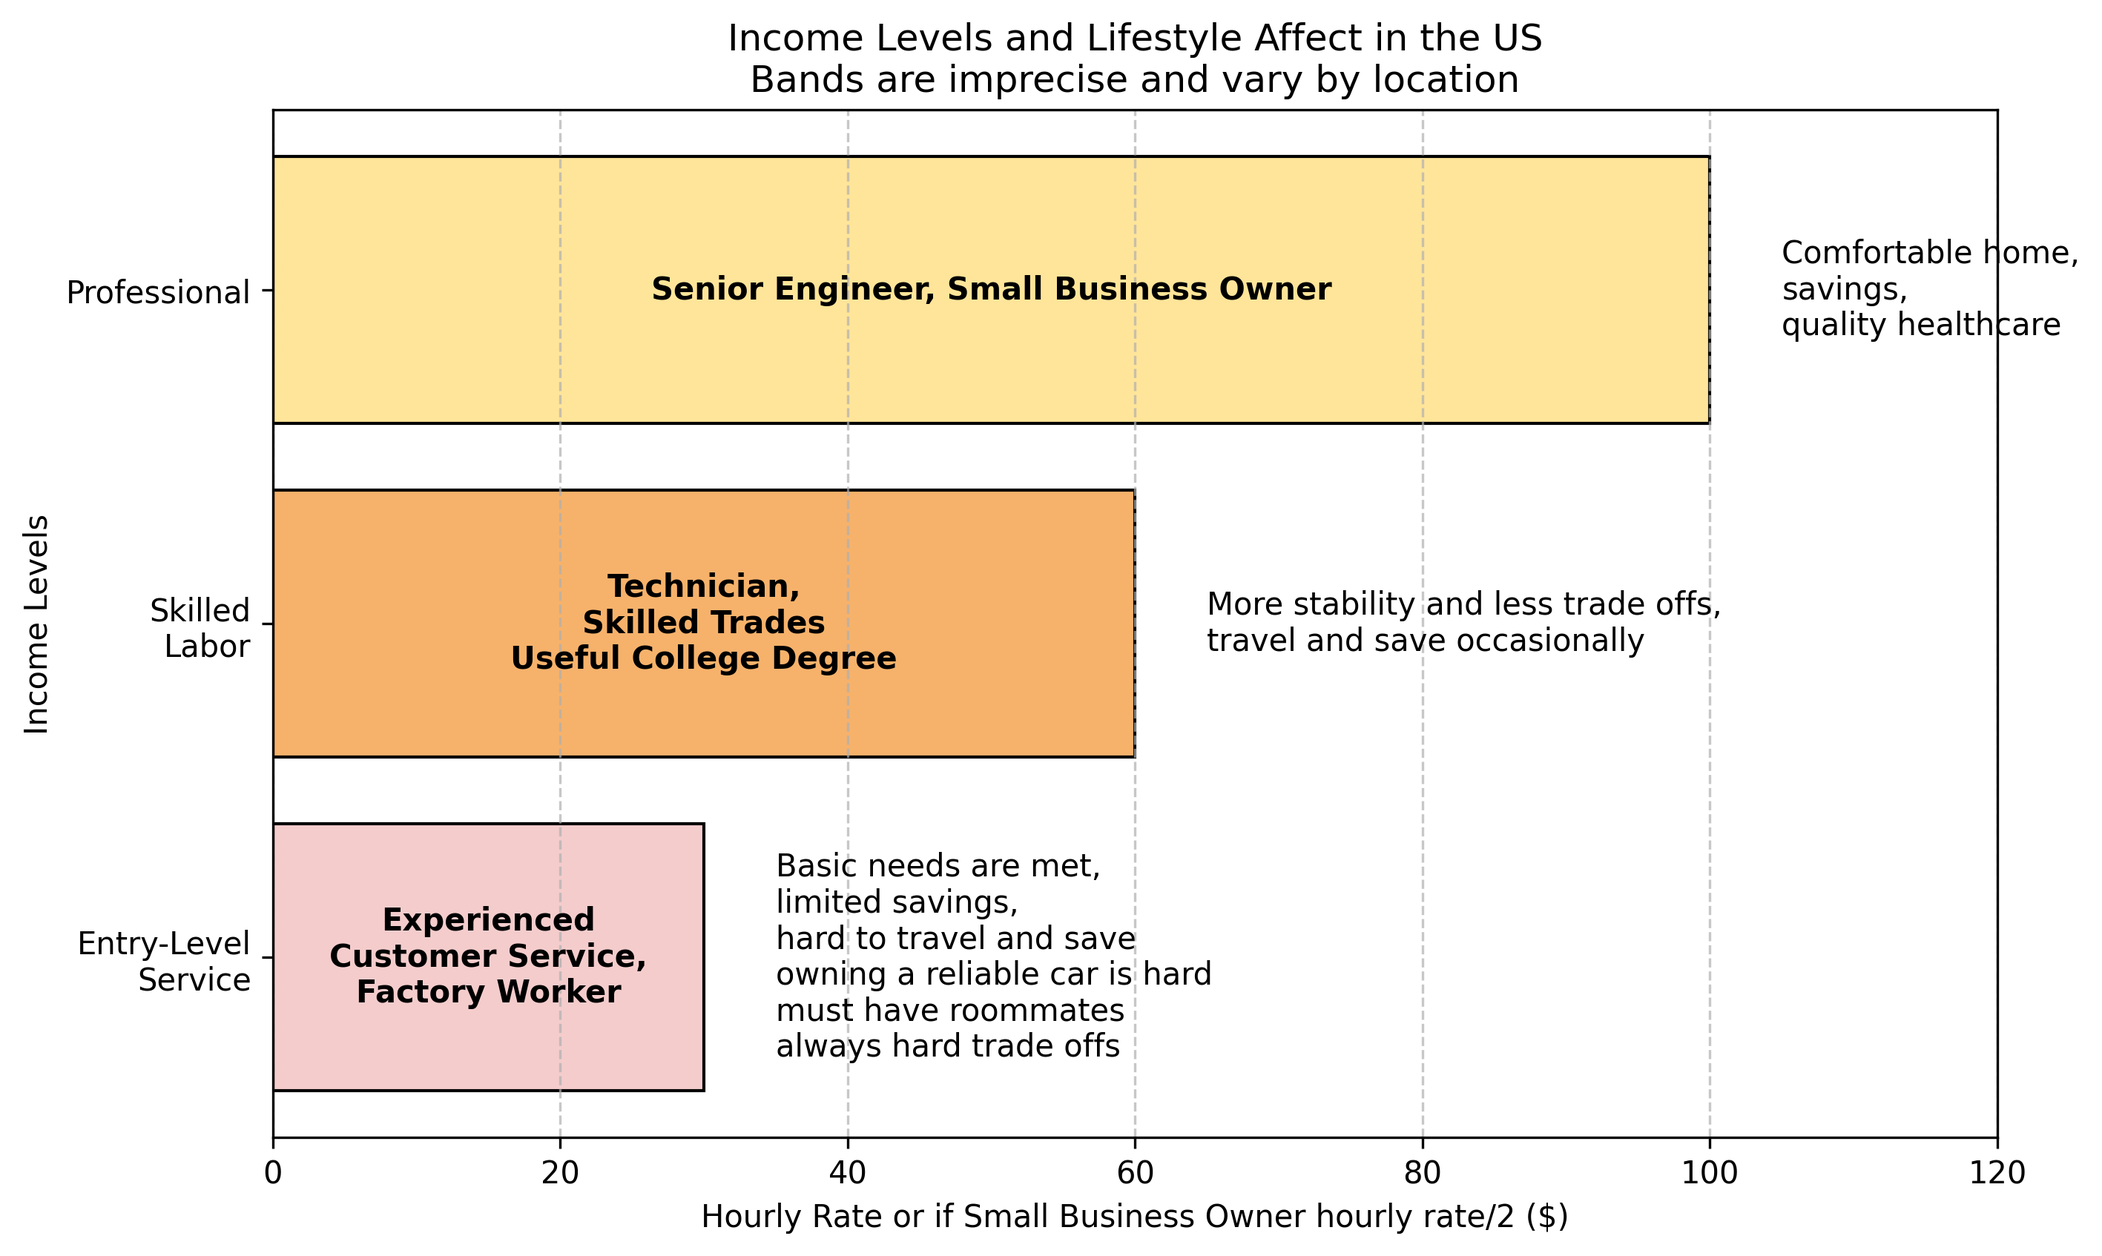
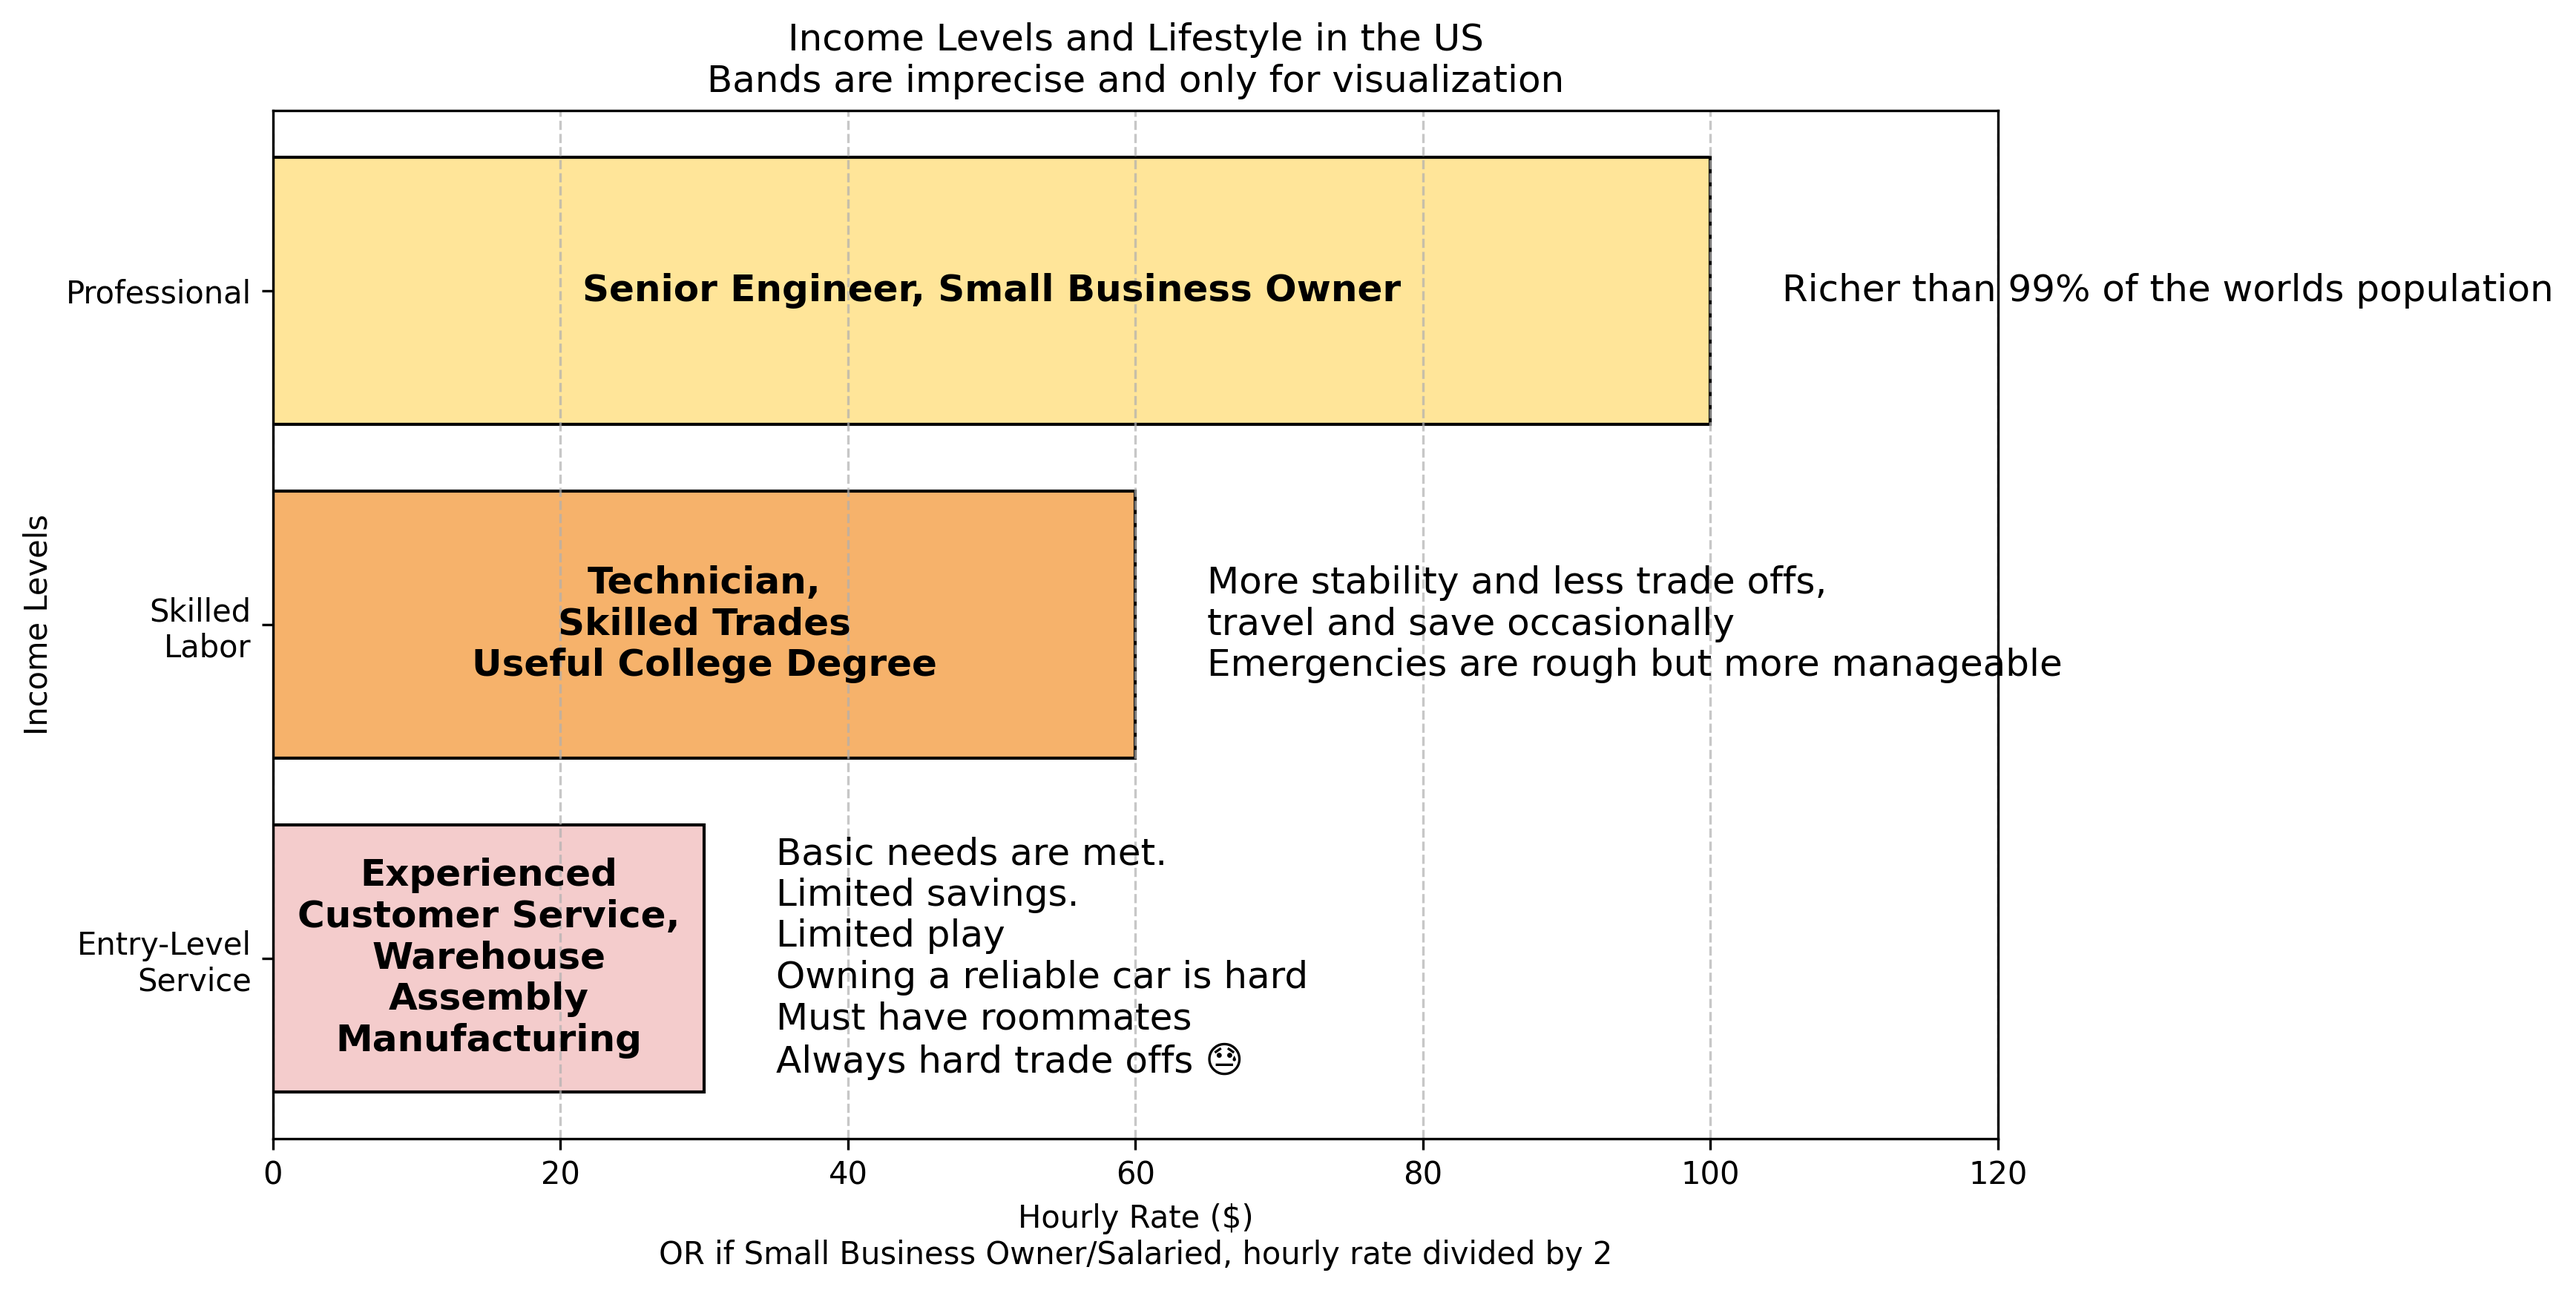
ðŸ“Š Update charts ðŸ“ˆ The system cannot accept the date entered. Enter the new date: (mm-dd-yy)  âœï¸

diff --git a/index.html b/index.html
@@ -34,10 +34,14 @@
         <h1>US Income Levels and Lifestyle Choices 2025</h1>
         <img src="income_chart.png" alt="Income Chart">
         <p>Disclaimer:
+This is a "Dad" picture, to help folks visualize the impact of income on lifestyle choices.
 This chart is a broad generalization and does not account for the many variables that can affect lifestyle choices, such as;
 location, family/family of origin, dependents, personal preferences, culture, religion, and economic conditions.
-This is a "Dad" picture, to help folks visualize the impact of income on lifestyle choices.
 </p>
+    </div>
+    <div class="container">
+    <h2>Other tools</h2>
+    <a href="https://www.givingwhatwecan.org/how-rich-am-i?income=100000&countryCode=USA&numAdults=1&numChildren=0" target="_blank" rel="noopener noreferrer">How Rich am I</a>
     </div>
 </body>
 </html>

diff --git a/zchart.py b/zchart.py
@@ -18,15 +18,15 @@ income_bands = [
 
 # Update job examples and lifestyle descriptions accordingly
 job_labels = [
-    "Experienced\nCustomer Service,\nFactory Worker",
+    "Experienced\nCustomer Service,\nWarehouse\nAssembly\nManufacturing",
     "Technician,\nSkilled Trades\nUseful College Degree",
     "Senior Engineer, Small Business Owner",
 ]
 
 lifestyle_labels = [
-    "Basic needs are met,\nlimited savings,\nhard to travel and save\nowning a reliable car is hard\nmust have roommates\nalways hard trade offs",
-    "More stability and less trade offs,\ntravel and save occasionally",
-    "Comfortable home,\nsavings,\nquality healthcare",
+    "Basic needs are met.\nLimited savings.\nLimited play\nOwning a reliable car is hard\nMust have roommates\nAlways hard trade offs 😓",
+    "More stability and less trade offs,\ntravel and save occasionally\nEmergencies are rough but more manageable",
+    "Richer than 99% of the worlds population"
 ]
 
 # Adjust colors
@@ -48,7 +48,7 @@ for i, bar in enumerate(bars):
         job_labels[i],
         va="center",
         ha="center",
-        fontsize=10,
+        fontsize=12,
         color="black",
         fontweight="bold",
     )
@@ -61,16 +61,14 @@ for i, (rate, label) in enumerate(income_bands):
         lifestyle_labels[i],
         va="center",
         ha="left",
-        fontsize=10,
+        fontsize=12,
         color="black",
     )
 
 # Labels and title
-ax.set_xlabel("Hourly Rate or if Small Business Owner hourly rate/2 ($)")
+ax.set_xlabel("Hourly Rate ($)\nOR if Small Business Owner/Salaried, hourly rate divided by 2")
 ax.set_ylabel("Income Levels")
-ax.set_title(
-    "Income Levels and Lifestyle Affect in the US\nBands are imprecise and vary by location"
-)
+ax.set_title("Income Levels and Lifestyle in the US\nBands are imprecise and only for visualization")
 ax.set_yticks(y_positions)
 ax.set_yticklabels([label for _, label in income_bands])
 ax.set_xlim(0, 120)  # Adjust x-axis limit for better label fit
@@ -80,15 +78,18 @@ ax.grid(axis="x", linestyle="--", alpha=0.7)
 plt.savefig("income_chart.png", dpi=300, bbox_inches="tight")
 
 disclaimer = """Disclaimer:
+This is a "Dad" picture, to help folks visualize the impact of income on lifestyle choices.
 This chart is a broad generalization and does not account for the many variables that can affect lifestyle choices, such as;
 location, family/family of origin, dependents, personal preferences, culture, religion, and economic conditions.
-This is a "Dad" picture, to help folks visualize the impact of income on lifestyle choices.
 """
 header = "US Income Levels and Lifestyle Choices 2025"
 
 # Create README.md with embedded image
 with open("README.md", "w") as f:
-    f.write(f"""# {header}\n![Income Chart](income_chart.png)\n<https://y3rsh.github.io/income-chart/>\n{disclaimer}""")
+    f.write(f"""# {header}\n![Income Chart](income_chart.png)\n<https://y3rsh.github.io/income-chart/>\n{disclaimer}
+## Other tools
+- [How Rich am I](https://www.givingwhatwecan.org/how-rich-am-i?income=100000&countryCode=USA&numAdults=1&numChildren=0)
+""")
 
 # Create an HTML page with embedded image
 html_content = f"""<!DOCTYPE html>
@@ -127,6 +128,10 @@ html_content = f"""<!DOCTYPE html>
         <h1>{header}</h1>
         <img src=\"income_chart.png\" alt=\"Income Chart\">
         <p>{disclaimer}</p>
+    </div>
+    <div class=\"container\">
+    <h2>Other tools</h2>
+    <a href="https://www.givingwhatwecan.org/how-rich-am-i?income=100000&countryCode=USA&numAdults=1&numChildren=0" target="_blank" rel="noopener noreferrer">How Rich am I</a>
     </div>
 </body>
 </html>"""

diff --git a/README.md b/README.md
@@ -2,6 +2,9 @@
 ![Income Chart](income_chart.png)
 <https://y3rsh.github.io/income-chart/>
 Disclaimer:
+This is a "Dad" picture, to help folks visualize the impact of income on lifestyle choices.
 This chart is a broad generalization and does not account for the many variables that can affect lifestyle choices, such as;
 location, family/family of origin, dependents, personal preferences, culture, religion, and economic conditions.
-This is a "Dad" picture, to help folks visualize the impact of income on lifestyle choices.
+
+## Other tools
+- [How Rich am I](https://www.givingwhatwecan.org/how-rich-am-i?income=100000&countryCode=USA&numAdults=1&numChildren=0)
